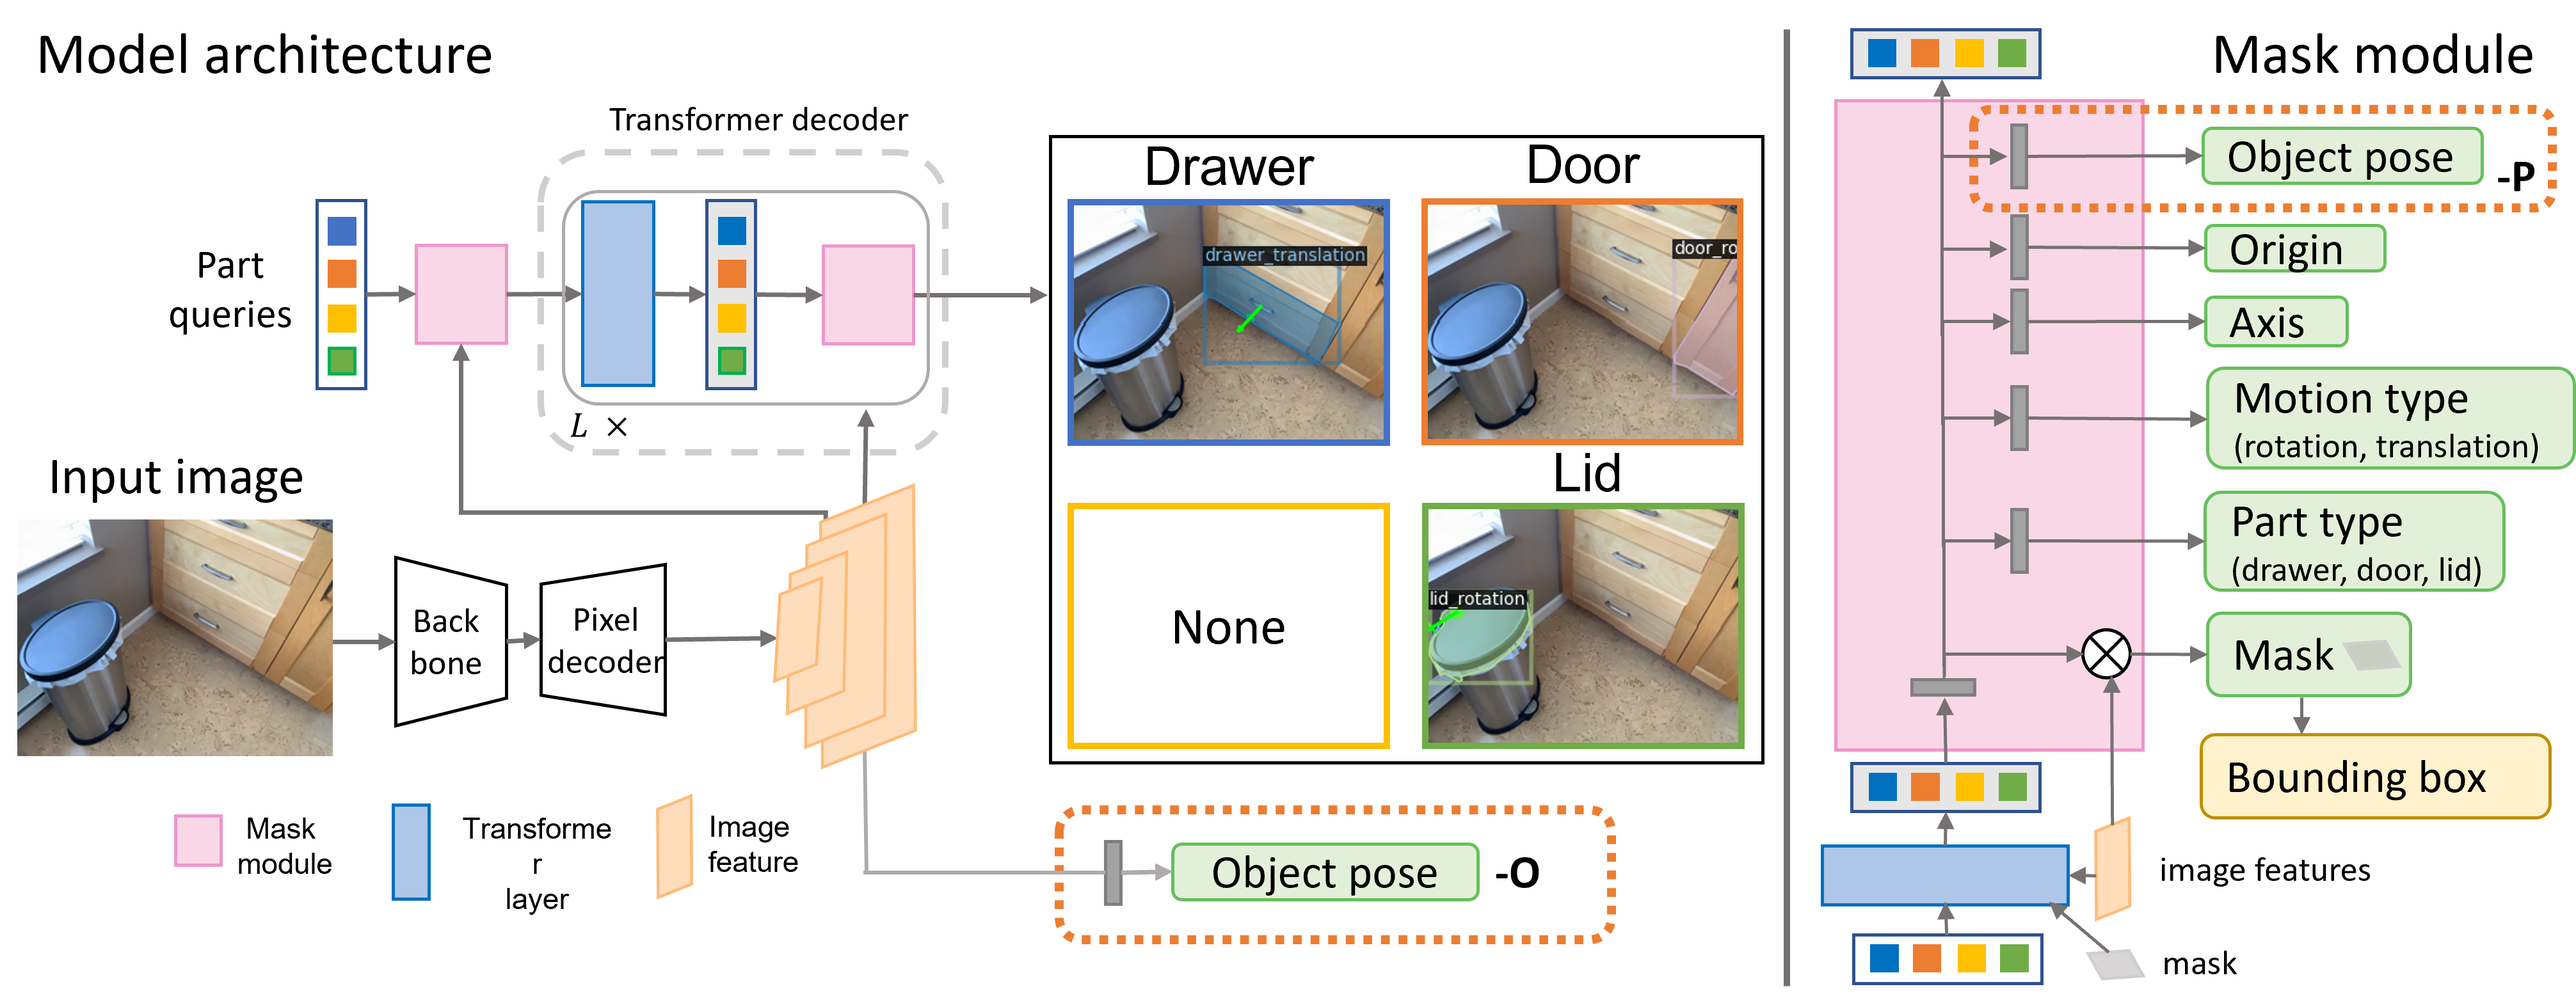
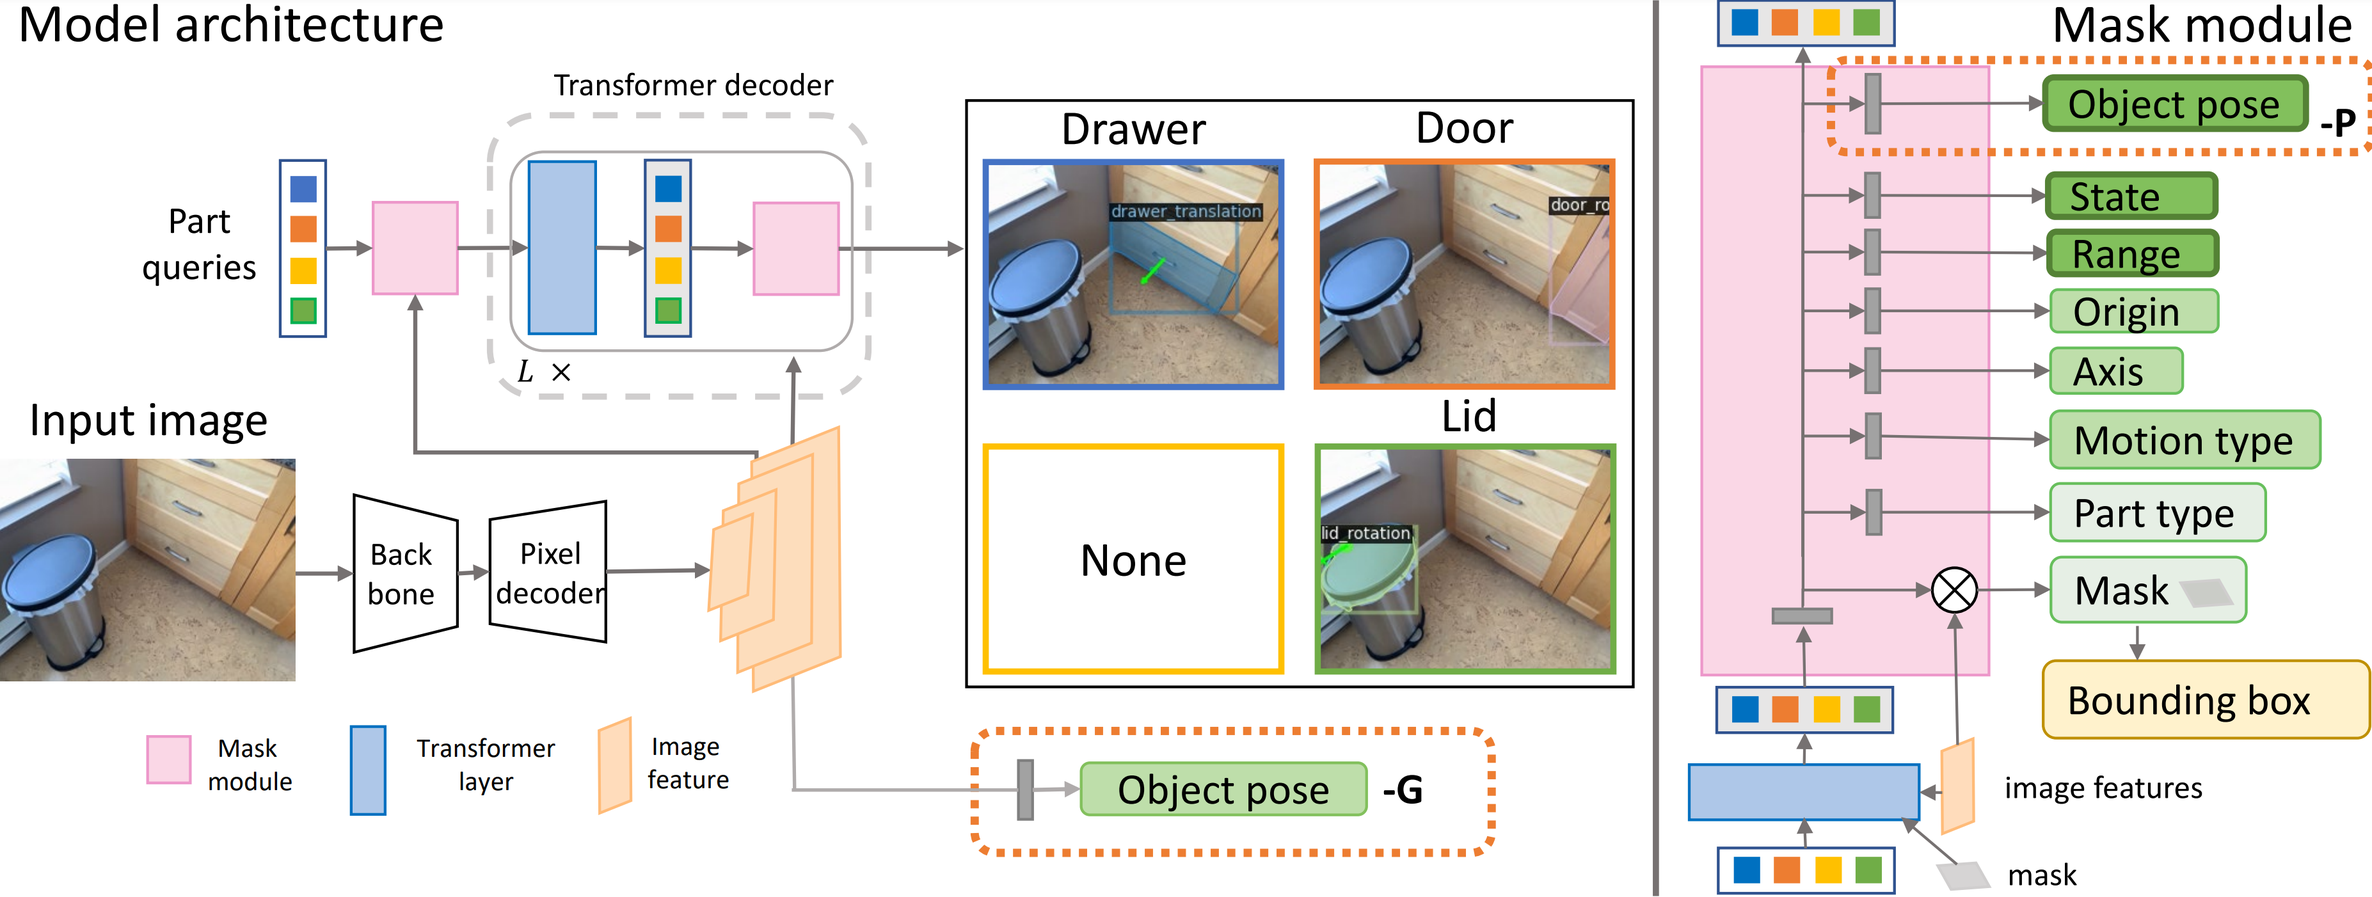
update website with motion state animation

diff --git a/docs/index.html b/docs/index.html
@@ -122,7 +122,7 @@
             <p>
                 Illustration of OPDFormer variants, which are based on a Mask2Former backbone.
                 The left side shows the overall network structure, while the right shows the mask module in detail.
-                The mask module predicts part motion parameters (motion origin MO, motion axis MA, motion type MT and
+                The mask module predicts part motion parameters (motion origin MO, motion axis MA, motion type MT, motion state, motion range and
                 part class in green boxes).
                 The detected parts indicated in the center correspond to the queries indicated by colored boxes on the
                 right side.
@@ -141,6 +141,52 @@
             </div>
         </div>
     </div> -->
+        <div class="section">
+            <h2>Motion State Animation</h2>
+            <hr>
+            <table style="border-collapse: collapse; border: none;">
+                <tr>
+                    <!-- Table row -->
+                    <th style="padding: 5px 10px; text-align: left; border: none;">RGB</th>
+                    <td class="image-box">
+                        <!-- Table cell -->
+                        <img src="img/motion_animation/187-0.png">
+                    </td>
+                    <td class="image-box">
+                        <!-- Another table cell -->
+                        <img src="img/motion_animation/187-23040.png">
+                    </td>
+                    <td class="image-box">
+                        <!-- Table cell -->
+                        <img src="img/motion_animation/59-4860.png">
+                    </td>
+                    <td class="image-box">
+                        <!-- Table cell -->
+                        <img src="img/motion_animation/174-8460.png">
+                    </td>
+                </tr>
+                <tr>
+                    <!-- Table row -->
+                    <th style="padding: 5px 10px; text-align: left; border: none;">Animation</th>
+                    <td class="image-box">
+                        <!-- Table cell -->
+                        <img src="img/motion_animation/187-0.gif">
+                    </td>
+                    <td class="image-box">
+                        <!-- Another table cell -->
+                        <img src="img/motion_animation/187-23040.gif">
+                    </td>
+                    <td class="image-box">
+                        <!-- Table cell -->
+                        <img src="img/motion_animation/59-4860.gif">
+                    </td>
+                    <td class="image-box">
+                        <!-- Table cell -->
+                        <img src="img/motion_animation/174-8460.gif">
+                    </td>
+                </tr>
+            </table>
+        </div>
 
         <div class="section">
             <h2>Download</h2>

diff --git a/docs/offcanvas.css b/docs/offcanvas.css
@@ -107,3 +107,20 @@ h2 {
 .vspace-top {
     margin-top: 30px;
 }
+
+td.image-box {
+  width: 256px;  /* or whatever width you want */
+  height: 192px; /* or whatever height you want */
+  border: none;
+  padding: 10px;
+  text-align: center;
+  vertical-align: middle;
+  overflow: hidden; /* This will hide the parts of the image/GIF that overflow the box */
+}
+
+td.image-box img {
+  max-width: 100%;
+  max-height: 100%;
+  display: block; /* This will remove the bottom space which is by default for inline elements */
+  margin: auto;   /* Centering the image if it doesn't take up the full width or height */
+}
